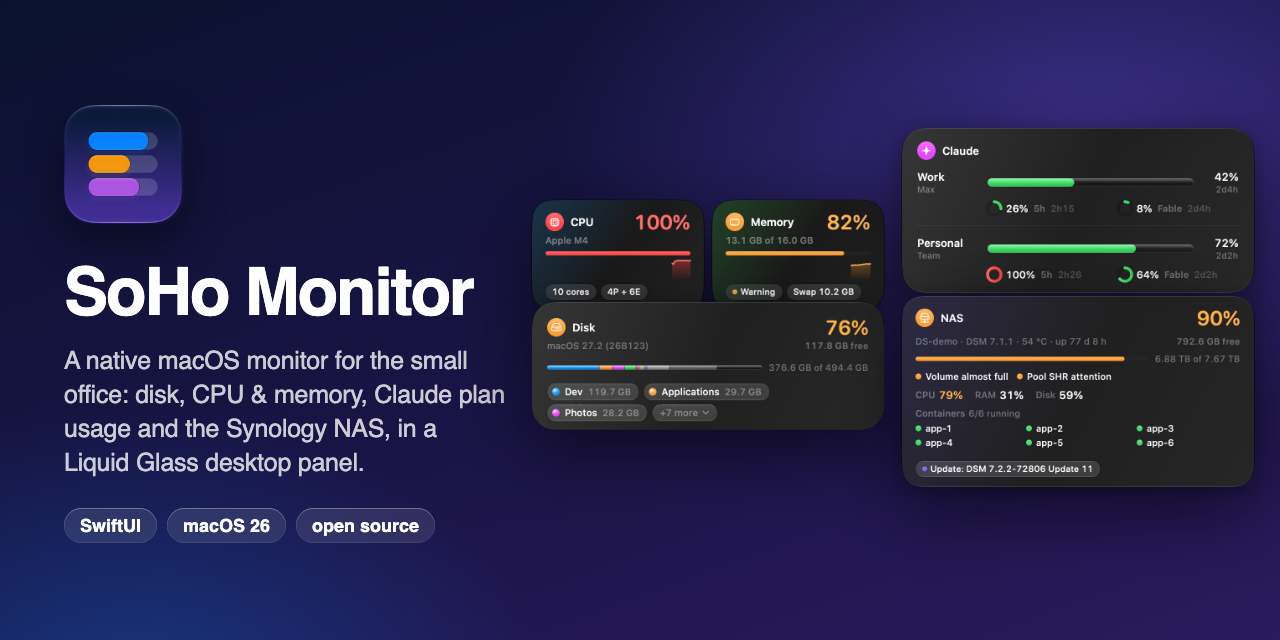
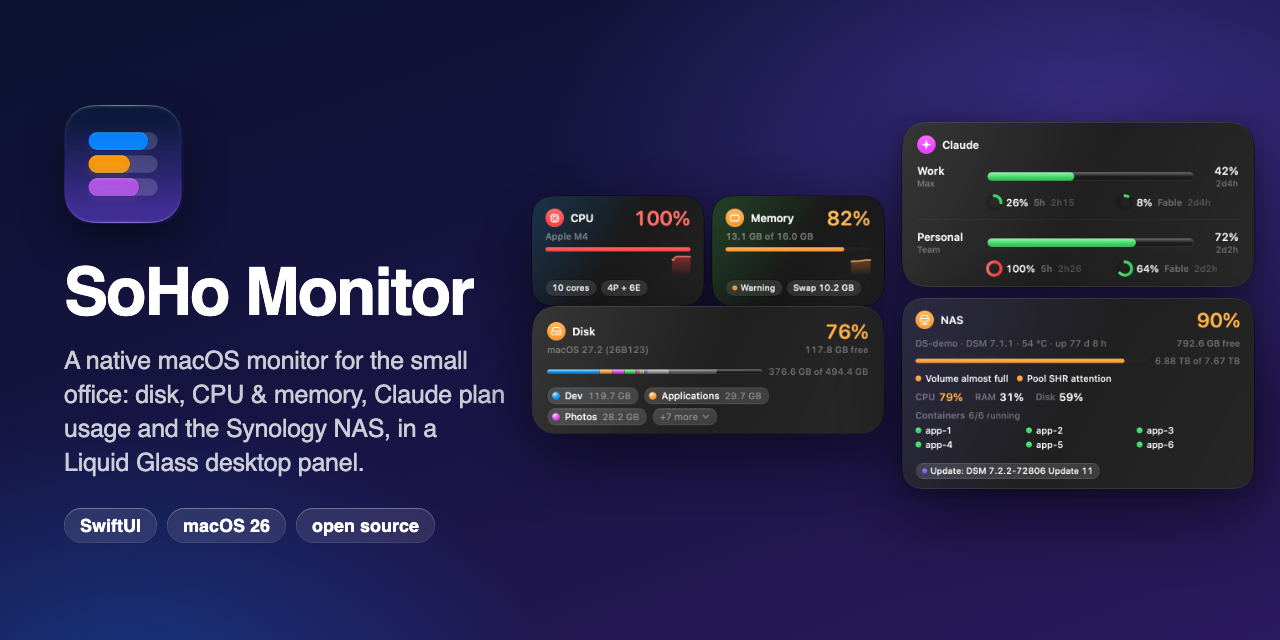
docs: review round 1 of #95 (hero cards no longer overlap)
Claude-Session: https://claude.ai/code/session_014QH2CJe8qy5L8b2baUWXGw

diff --git a/docs/social-preview/index.html b/docs/social-preview/index.html
@@ -26,15 +26,15 @@
   .card img { display: block; }
   /* Left column: CPU and memory, then disk; right column: Claude, then the NAS. Every image is 2x, with ~12 pt of
      transparent margin around its card (room for the glass's shadow in the panel). */
-  .sys { left: 522px; top: 190px; width: 372px; }
+  .sys { left: 522px; top: 186px; width: 372px; }
   .sys img { width: 372px; }
   /* The disk card's footer ("Updated … · partial scan" note) is clipped off under the legend, corners redrawn. Clip on
      the image, so the wrapper's shadow follows the new edge. */
-  .disk { left: 522px; top: 292px; width: 372px; }
+  .disk { left: 522px; top: 296px; width: 372px; }
   .disk img { width: 372px; clip-path: inset(0 10px 34px 10px round 0 0 23px 23px); }
-  .claude { left: 892px; top: 118px; width: 372px; }
+  .claude { left: 892px; top: 112px; width: 372px; }
   .claude img { width: 372px; }
-  .nas { left: 892px; top: 286px; width: 372px; }
+  .nas { left: 892px; top: 288px; width: 372px; }
   .nas img { width: 372px; }
 </style>
 </head>
